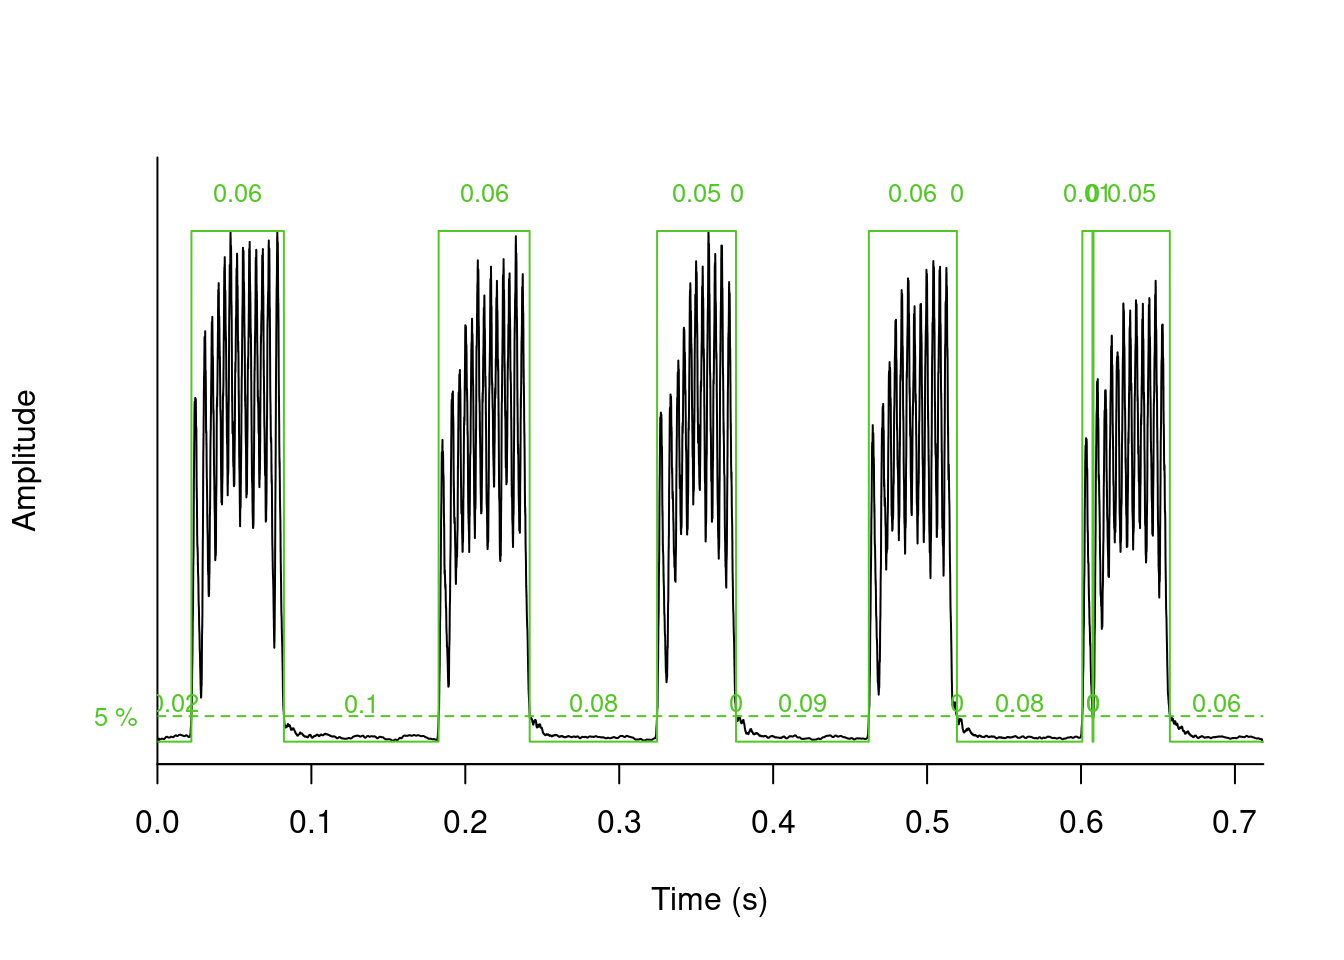
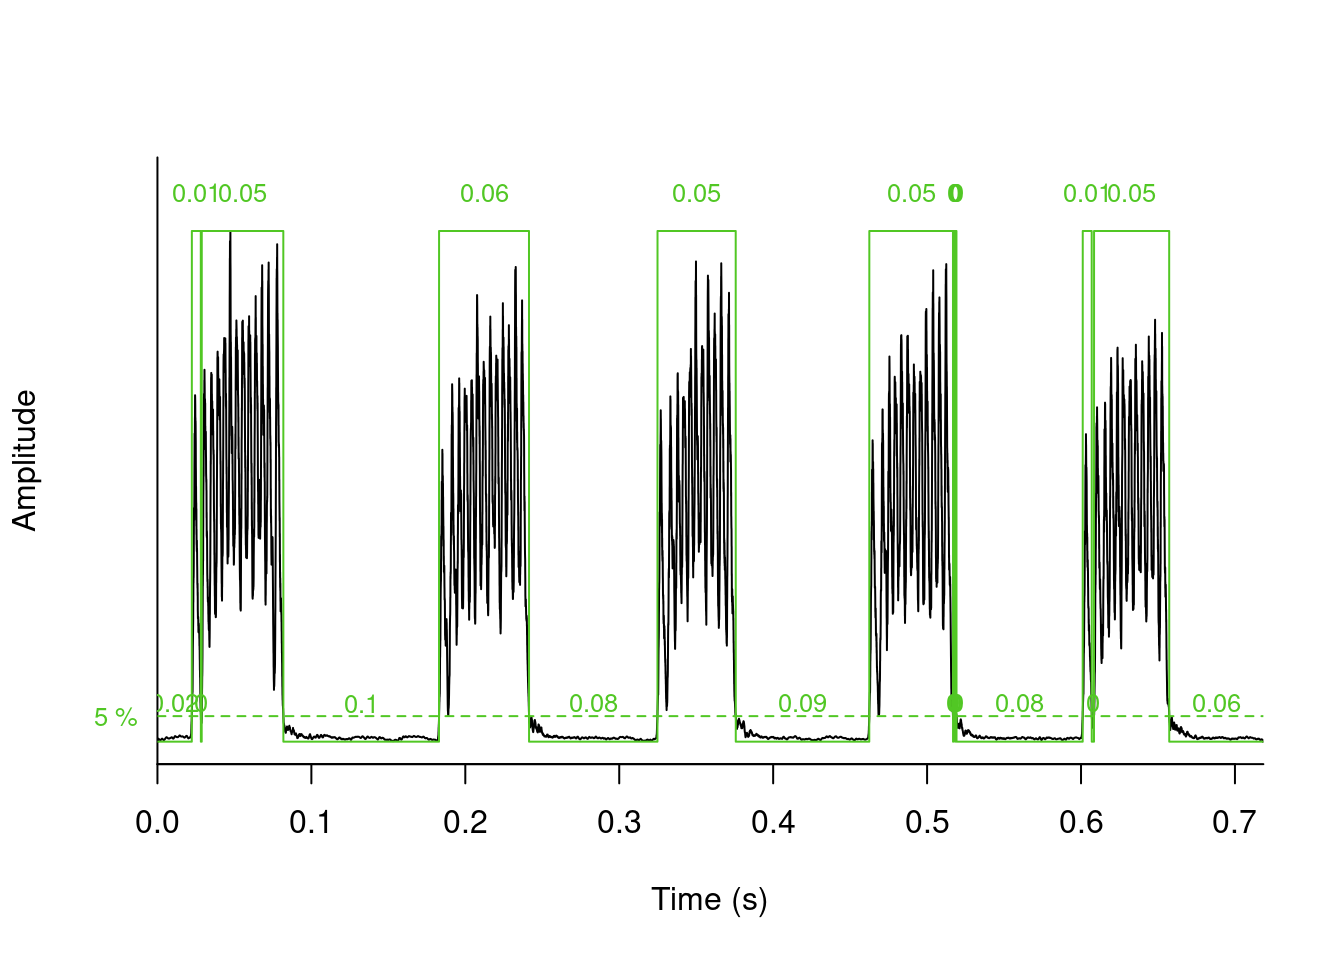
update

diff --git a/docs/seewave.html b/docs/seewave.html
@@ -447,7 +447,7 @@ pre > code.sourceCode > span > a:first-child::before { text-decoration: underlin
 <span id="cb11-2"><a href="#cb11-2" aria-hidden="true" tabindex="-1"></a>  orni,</span>
 <span id="cb11-3"><a href="#cb11-3" aria-hidden="true" tabindex="-1"></a>  <span class="at">f =</span> <span class="dv">22050</span>,</span>
 <span id="cb11-4"><a href="#cb11-4" aria-hidden="true" tabindex="-1"></a>  <span class="at">threshold =</span> <span class="dv">5</span>,</span>
-<span id="cb11-5"><a href="#cb11-5" aria-hidden="true" tabindex="-1"></a>  <span class="at">ssmooth =</span> <span class="dv">40</span>,</span>
+<span id="cb11-5"><a href="#cb11-5" aria-hidden="true" tabindex="-1"></a>  <span class="at">ssmooth =</span> <span class="dv">20</span>,</span>
 <span id="cb11-6"><a href="#cb11-6" aria-hidden="true" tabindex="-1"></a>  <span class="at">bty =</span> <span class="st">"l"</span>,</span>
 <span id="cb11-7"><a href="#cb11-7" aria-hidden="true" tabindex="-1"></a>  <span class="at">colval =</span> <span class="st">"#51c724"</span></span>
 <span id="cb11-8"><a href="#cb11-8" aria-hidden="true" tabindex="-1"></a>)</span></code><button title="Copy to Clipboard" class="code-copy-button"><i class="bi"></i></button></pre></div>
@@ -465,23 +465,25 @@ pre > code.sourceCode > span > a:first-child::before { text-decoration: underlin
 </details>
 <div class="cell-output cell-output-stdout">
 <pre><code>$s
-[1] 6.013985e-02 5.918741e-02 5.134111e-02 4.535434e-05 5.728253e-02
-[6] 4.535434e-05 6.667088e-03 4.535434e-05 4.966300e-02
+ [1] 5.896064e-03 5.306457e-02 5.850709e-02 5.088757e-02 5.442520e-02
+ [6] 1.133858e-03 4.535434e-05 8.163781e-04 4.535434e-05 5.896064e-03
+[11] 4.889198e-02
 
 $p
- [1] 2.208756e-02 1.004599e-01 8.272631e-02 2.267717e-04 8.594647e-02
- [6] 4.535434e-05 8.132033e-02 4.988977e-04 4.535434e-05 6.068410e-02
+ [1] 2.235969e-02 5.442520e-04 1.010948e-01 8.340663e-02 8.671749e-02
+ [6] 1.814173e-04 4.535434e-05 4.535434e-05 4.535434e-05 8.186458e-02
+[11] 1.451339e-03 6.109229e-02
 
 $r
-[1] 0.6552769
+[1] 0.6371434
 
 $s.start
-[1] 0.02208756 0.18268727 0.32460099 0.37616887 0.46216069 0.51948857 0.60085425
-[8] 0.60802024 0.60811095
+ [1] 0.02235969 0.02880000 0.18295939 0.32487311 0.46247817 0.51708479
+ [7] 0.51826401 0.51835472 0.51921645 0.60112638 0.60847378
 
 $s.end
-[1] 0.08222741 0.24187468 0.37594210 0.37621422 0.51944322 0.51953393 0.60752134
-[8] 0.60806559 0.65777395
+ [1] 0.02825575 0.08186458 0.24146649 0.37576068 0.51690338 0.51821865
+ [7] 0.51830936 0.51917109 0.51926180 0.60702244 0.65736576
 
 $first
 [1] "pause"</code></pre>
@@ -512,7 +514,7 @@ $first
 <p><img src="images/env_sliding_window_scheme_ENG_v2_1024.gif" alt="Sliding window" width="100%"></p>
 <p>&nbsp;</p>
 </div>
-<p>The argument <code>ssmooth</code> allows you to apply a sliding window to the amplitude envelope before detecting the pulses. This can help to avoid detecting very small amplitude fluctuations as signals. For example, using a window of 40 samples:</p>
+<p>Smoothing the envelope can help to avoid detecting very small amplitude fluctuations as signals. For example, using a sliding window of 40 samples:</p>
 <div class="cell">
 <details open="" class="code-fold">
 <summary>Code</summary>
